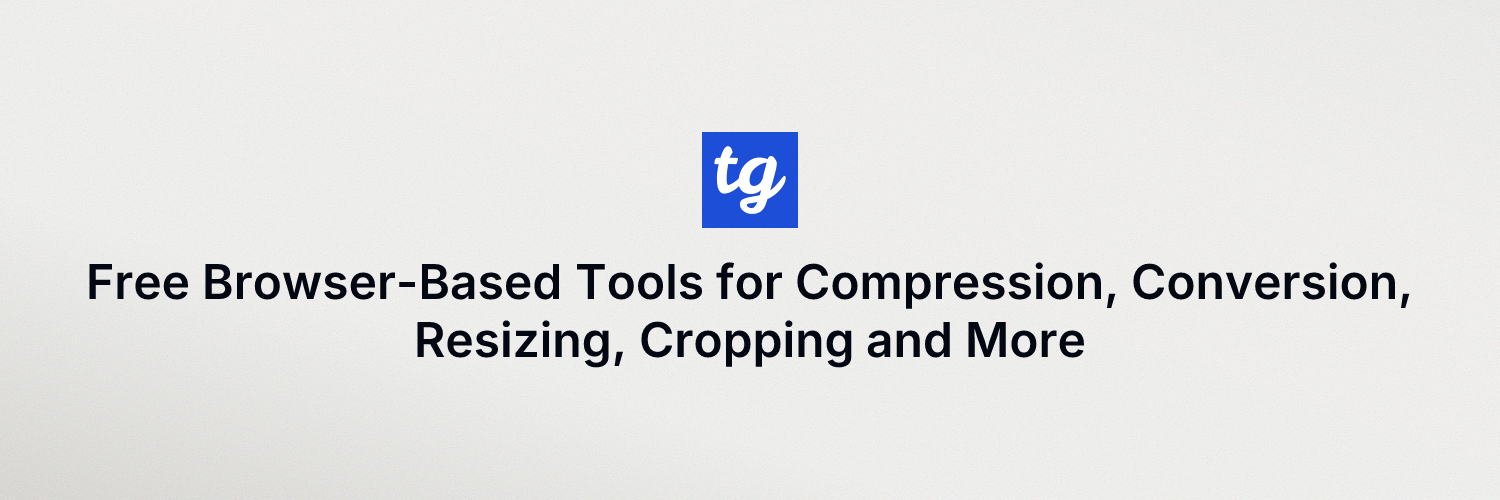
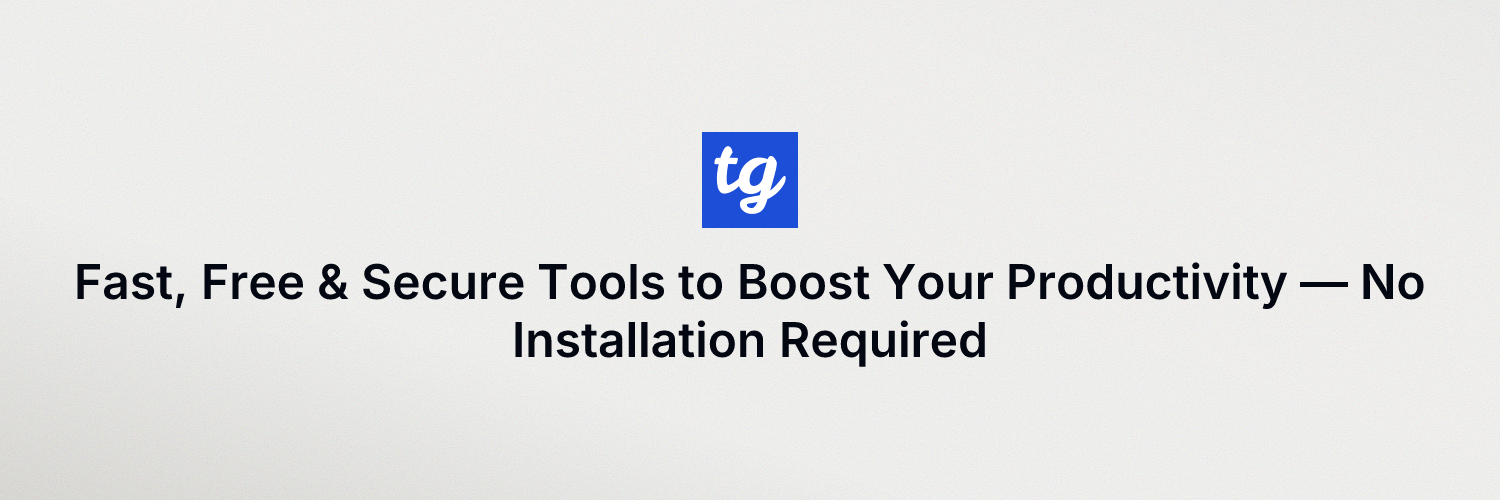
Update issue

Changed region(s): [[0.0307, 0.51, 0.9507, 0.63], [0.276, 0.63, 0.736, 0.75]]

diff --git a/resources/css/app.css b/resources/css/app.css
@@ -134,6 +134,9 @@
     select,
     textarea,
     * {
-        @apply font-sans tracking-[0];
+        @apply font-sans tracking-normal;
+    }
+    body {
+        @apply max-w-full;
     }
 }

diff --git a/app/Http/Controllers/Admin/CategoryController.php b/app/Http/Controllers/Admin/CategoryController.php
@@ -1,0 +1,17 @@
+<?php
+
+namespace App\Http\Controllers\Admin;
+
+use App\Http\Controllers\Controller;
+use App\Models\Category;
+use Illuminate\Http\Request;
+
+class CategoryController extends Controller
+{
+    // 
+    public function index()
+    {
+        $date = Category::latest()->get();
+        return view('', ['data' => $data]);
+    }
+}

diff --git a/resources/views/partials/footer.blade.php b/resources/views/partials/footer.blade.php
@@ -5,9 +5,9 @@
     </div>
 
     <div class="max-w-7xl mx-auto px-4 sm:px-6 lg:px-8 pt-16 lg:pt-20 relative z-10">
-        <div class="grid grid-cols-2 md:grid-cols-5 gap-8 lg:gap-12">
+        <div class="grid grid-cols-1 md:grid-cols-5 gap-8 lg:gap-12">
             <!-- Branding and Description (Column 1) -->
-            <div class="col-span-2 md:col-span-1 space-y-4">
+            <div class="col-span-1 md:col-span-1 space-y-4">
                 <a href="/" class="flex items-center gap-2.5 group">
                     <span class="font-bold text-lg text-white font-space">
                         ToolsGPT.
@@ -127,7 +127,7 @@
 
         <!-- Additional Links Row -->
         <div
-            class="border-t border-brand-footer-border mt-12 pt-8 flex flex-wrap gap-x-6 gap-y-2 text-xs text-brand-footer-text/75 font-space">
+            class="border-t border-brand-footer-border mt-12 pt-8 flex justify-center md:justify-start flex-wrap gap-x-6 gap-y-2 text-xs text-brand-footer-text/75 font-space">
             <a href="{{ route('home') }}" class="hover:text-white transition-colors">Home</a>
             <a href="{{ route('all.tool') }}" class="hover:text-white transition-colors">All Tools</a>
             <a href="{{ route('blog.index') }}" class="hover:text-white transition-colors">Blog</a>
@@ -138,7 +138,8 @@
         </div>
 
         <!-- Bottom Copyright Bar -->
-        <div class="py-8 flex items-center justify-between text-xs text-brand-footer-muted font-medium font-space">
+        <div
+            class="py-8 flex flex-col md:flex-row items-center justify-between text-xs text-brand-footer-muted font-medium font-space space-y-2">
             <div>
                 &copy; 2026-{{ now()->year }} {{ request()->getHost() }} Free forever.
             </div>

diff --git a/resources/views/layouts/app.blade.php b/resources/views/layouts/app.blade.php
@@ -62,10 +62,10 @@
 
     <!-- Background decorative blur elements -->
     <div
-        class="absolute top-[-10%] left-[-10%] w-[50vw] h-[50vw] rounded-full bg-indigo-200/20 blur-[120px] pointer-events-none z-0">
+        class="absolute top-[-10%] left-[-10%] hidden md:block w-[50vw] h-[50vw] rounded-full bg-indigo-200/20 blur-[120px] pointer-events-none z-0">
     </div>
     <div
-        class="absolute top-[40%] right-[-10%] w-[40vw] h-[40vw] rounded-full bg-purple-200/15 blur-[120px] pointer-events-none z-0">
+        class="absolute top-[40%] right-[-10%] hidden md:block w-[40vw] h-[40vw] rounded-full bg-purple-200/15 blur-[120px] pointer-events-none z-0">
     </div>
 
     <!-- Top Announcement/Ad Banner -->